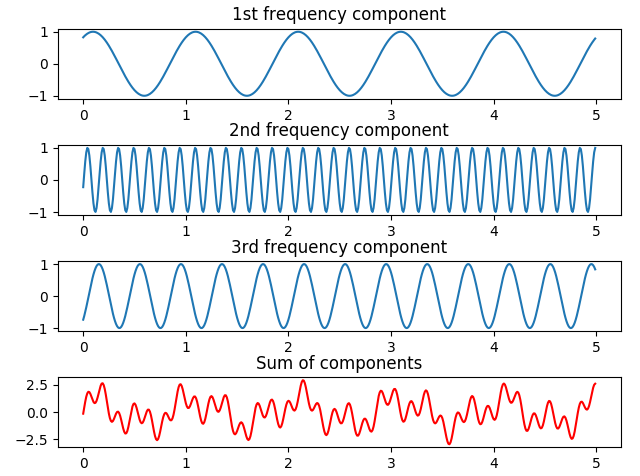
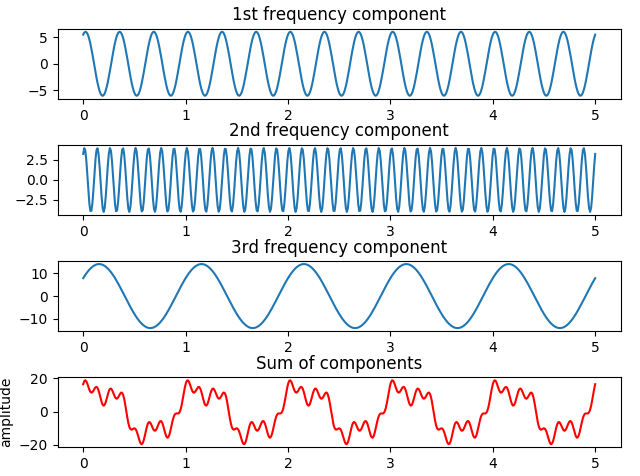
wip for fft quiz as q1

diff --git a/fft.py b/fft.py
@@ -1,68 +1,9 @@
 import matplotlib.pyplot as plt
-# import plotly.plotly as py
 import numpy as np
-from numpy import fft
 import scipy.fftpack
 
-
-# Learn about API authentication here: https://plot.ly/python/getting-started
-# Find your api_key here: https://plot.ly/settings/api
-
-def canned():
-    # from https://plot.ly/matplotlib/fft/
-    Fs = 150.0  # sampling rate
-    Ts = 1.0/Fs # sampling interval
-    t = np.arange(0,1,Ts) # time vector
-
-    ff = 5   # frequency of the signal
-    y = np.sin(2*np.pi*ff*t)
-
-    n = len(y) # length of the signal
-    k = np.arange(n)
-    T = n/Fs
-    frq = k/T # two sides frequency range
-    frq = frq[range(int(n/2))] # one side frequency range
-
-    Y = np.fft.fft(y)/n # fft computing and normalization
-    Y = Y[range(int(n/2))]
-
-    fig, ax = plt.subplots(2, 1)
-    ax[0].plot(t,y)
-    ax[0].set_xlabel('Time')
-    ax[0].set_ylabel('Amplitude')
-    ax[1].plot(frq,abs(Y),'r') # plotting the spectrum
-    ax[1].set_xlabel('Freq (Hz)')
-    ax[1].set_ylabel('|Y(freq)|')
-
-    plot_url = py.plot_mpl(fig, filename='mpl-basic-fft')
-
-def canned2():
-    # http://snowball.millersville.edu/~adecaria/ESCI386P/esci386-lesson17-Fourier-Transforms.pdf
-    from numpy import fft
-    import numpy as np
-    import matplotlib.pyplot as plt
-    n = 1000  # Number of data points
-    dx = 5.0  # Sampling period (in meters)
-    x = dx * np.arange(0, n)  # x coordinates
-    w1 = 100.0  # wavelength (meters)
-    w2 = 20.0  # wavelength (meters)
-    fx = np.sin(2 * np.pi * x / w1) + 2 * np.cos(2 * np.pi * x / w2)  # signal
-    Fk = fft.fft(fx) / n  # Fourier coefficients (divided by n)
-    nu = fft.fftfreq(n, dx)  # Natural frequencies
-    Fk = fft.fftshift(Fk)  # Shift zero freq to center
-    nu = fft.fftshift(nu)  # Shift zero freq to center
-    f, ax = plt.subplots(3, 1, sharex=True)
-    ax[0].plot(nu, np.real(Fk))  # Plot Cosine terms
-    ax[0].set_ylabel(r'$Re[F_k]$', size='x-large')
-    ax[1].plot(nu, np.imag(Fk))  # Plot Sine terms
-    ax[1].set_ylabel(r'$Im[F_k]$', size='x-large')
-    ax[2].plot(nu, np.absolute(Fk) ** 2)  # Plot spectral power
-    ax[2].set_ylabel(r'$\vert F_k \vert ^2$', size='x-large')
-    ax[2].set_xlabel(r'$\widetilde{\nu}$', size='x-large')
-    plt.show()
-
-def canned3():
-
+def example():
+    # https: // stackoverflow.com / questions / 25735153 / plotting - a - fast - fourier - transform - in -python
     import numpy as np
     import matplotlib.pyplot as plt
     import scipy.fftpack
@@ -82,21 +23,25 @@ def canned3():
 
 
 def show_three_sinusoids(freq1, freq2, freq3):
+
+    # function to create sinusoid with random phase at given frequenc
     def sinusoid(freq):
         phase = np.random.random()
-        return np.cos(2*np.pi * freq - phase)
-    # Number of sample points per T=1
+        amplitude = 2*(np.random.random_integers(1,10))
+        return amplitude*np.cos(2*np.pi * freq - phase)
+
+
+    # Number of sample points
     N = 500
-    # Time range to display
-    R = 5.0
     # sample period
-    T = R / N
+    T = 0.01
+    # range max to display
+    R = 5.0
 
-
-    # t = np.arange(0.0, R, T) # returns an array of evenly spaced values
+    # time plotted on X axis
     t = np.linspace(0.0, R, N)
 
-    # plot three frequencies with random phase shifts
+    # plot three frequencies with random phase shifts on y axis
     plt.figure(1)
     f1 = sinusoid(t*freq1)
     f2 = sinusoid(t*freq2)
@@ -131,6 +76,7 @@ def show_three_sinusoids(freq1, freq2, freq3):
         hspace=0.65,
         wspace=0.2
         )
+    plt.ylabel('amplitude')
     plt.show()
     return f4, T
 
@@ -149,18 +95,23 @@ def splitem(signal, spacing):
 
     fig, ax = plt.subplots()
     ax.plot(xf, 2.0 / N * np.abs(yf[:N // 2]))
+    plt.title('Fast Fourier Transform')
+    plt.xlabel('frequency')
+    plt.ylabel('amplitude')
     plt.show()
 
 
 if __name__ == '__main__':
 
 
-    # pick three frequencies and add them
+    # pick three frequencies in a range between 0 and 50
+    # they will be given random amplitudes and phases
     f1 = 3
-    f2 = 12
-    f3 = 20
+    f2 = 8
+    f3 = 1
 
-    fsum, sample_period = show_three_sinusoids(f1, f2, f3)
+    # add them and display
+    frequencies_summed, spacing = show_three_sinusoids(f1, f2, f3)
 
-    # now decompose
-    splitem(fsum, sample_period)
+    # now decompose with FFT
+    splitem(frequencies_summed, spacing)

diff --git a/q1_utils.py b/q1_utils.py
@@ -1,0 +1,58 @@
+import matplotlib.pyplot as plt
+import numpy as np
+import scipy.fftpack
+
+
+# function to create sinusoid with random phase at given frequenc
+def sinusoid(freq):
+    phase = np.random.random()
+    amplitude = 2 * (np.random.random_integers(1, 10))
+    return amplitude * np.cos(2 * np.pi * freq - phase)
+
+def display_sinusoids(time_array, f1, f2, f3, sum):
+
+    # plot three frequencies with random phase shifts on y axis
+    # plt.figure()
+    fig, ax = plt.subplots(4,1)
+    # plt.subplot(411)  # 3 rows, 1 column, fignum 1
+    ax[0].plot(time_array, f1)
+    ax[0].set_title('1st frequency component')
+
+    # plt.subplot(412)  # 3 rows, 1 column, fignum 2
+    ax[1].plot(time_array, f2)
+    ax[1].set_title('2nd frequency component')
+
+    # plt.subplot(413)  # 3 rows, 1 column, fignum 3
+    ax[2].plot(time_array, f3)
+    ax[2].set_title('3rd frequency component')
+
+    # sum
+    # plt.subplot(414)  # 3 rows, 1 column, fignum 4
+    ax[3].plot(time_array, sum, 'r')
+    ax[3].set_title('Sum of components')
+    ax[3].set_ylabel('amplitude')
+    ax[3].set_xlabel('time')
+
+    # adjust format of display to make room for titles
+    plt.subplots_adjust(
+        top=0.94,
+        bottom=0.11,
+        left=0.11,
+        right=0.97,
+        hspace=0.65,
+        wspace=0.2
+    )
+    # plt.show()
+    return plt.plot
+
+def display_fft(xf, yf):
+
+    num_samples = np.shape(yf)[0]
+
+    plt.figure()
+    fig, ax = plt.subplots()
+    ax.plot(xf, 2.0 / num_samples * np.abs(yf[:num_samples // 2]))
+    plt.title('Fast Fourier Transform')
+    plt.xlabel('frequency')
+    plt.ylabel('amplitude')
+    plt.show()

diff --git a/q1_function.py b/q1_function.py
@@ -1,0 +1,43 @@
+import matplotlib.pyplot as plt
+import numpy as np
+import scipy.fftpack
+from q1_utils import sinusoid, display_sinusoids, display_fft
+
+def choose_frequencies():
+    # pick three frequencies in a range between 0 and 50
+    # they will be given random amplitudes and phases
+    # *** TODO provide three frequencies between 1 and 50
+    freq1 = 3
+    freq2 = 8
+    freq3 = 1
+    return(freq1, freq2, freq3)
+
+def demo_fft():
+    # Number of sample points
+    num_samples = 500
+    # range max to display
+    range_of_time = 5.0
+    # sample spacing
+    spacing = range_of_time/num_samples
+    # array for time samples
+    t = np.linspace(0.0, range_of_time, num_samples)
+
+    freq1, freq2, freq3 = choose_frequencies()
+    # create the sinusoidal waves and add them
+    wave1 = sinusoid(t * freq1)
+    wave2 = sinusoid(t * freq2)
+    wave3 = sinusoid(t * freq3)
+    sum_waves = wave1 + wave2 + wave3
+
+    # display the waves
+    thepictoshow = display_sinusoids(t, wave1,wave2,wave3, sum_waves)
+    plt.plot = thepictoshow
+    plt.show()
+
+    yf = scipy.fftpack.fft(sum_waves)
+    # only show half
+    xf = np.linspace(0.0, 1.0 / (2.0 * spacing), num_samples / 2)
+    display_fft(xf, yf)
+
+if __name__ == '__main__':
+    demo_fft()
